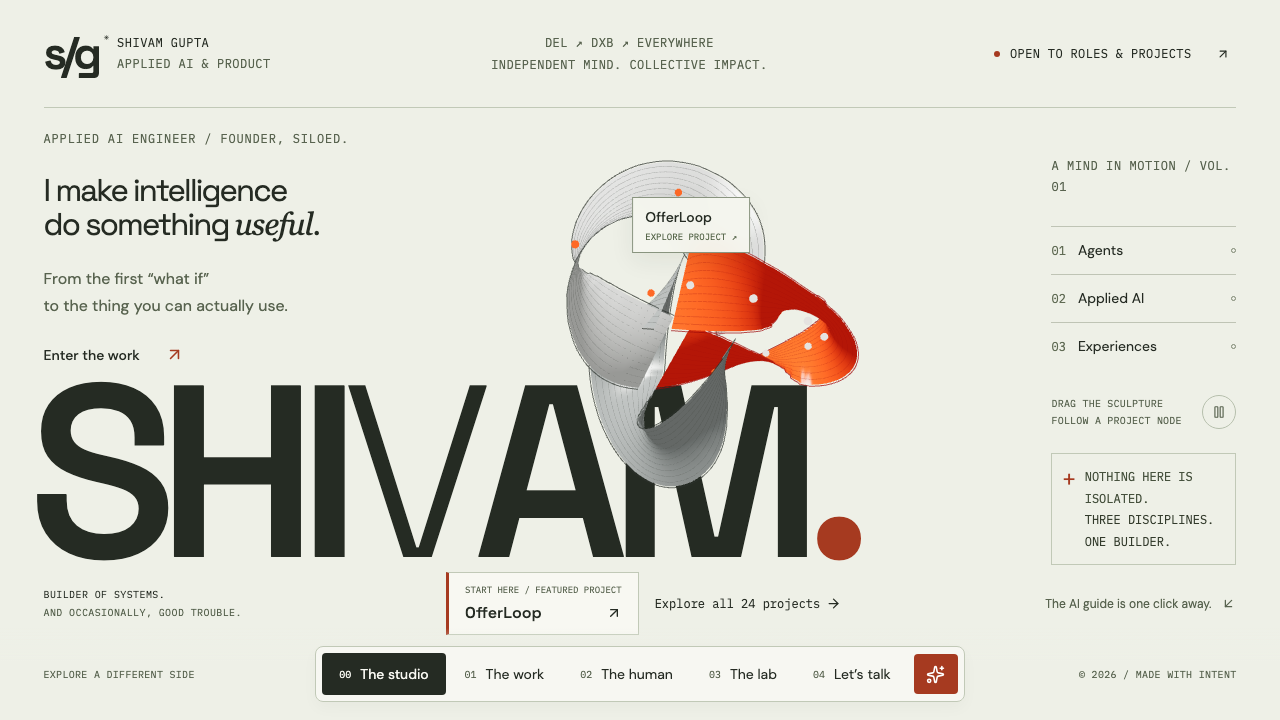
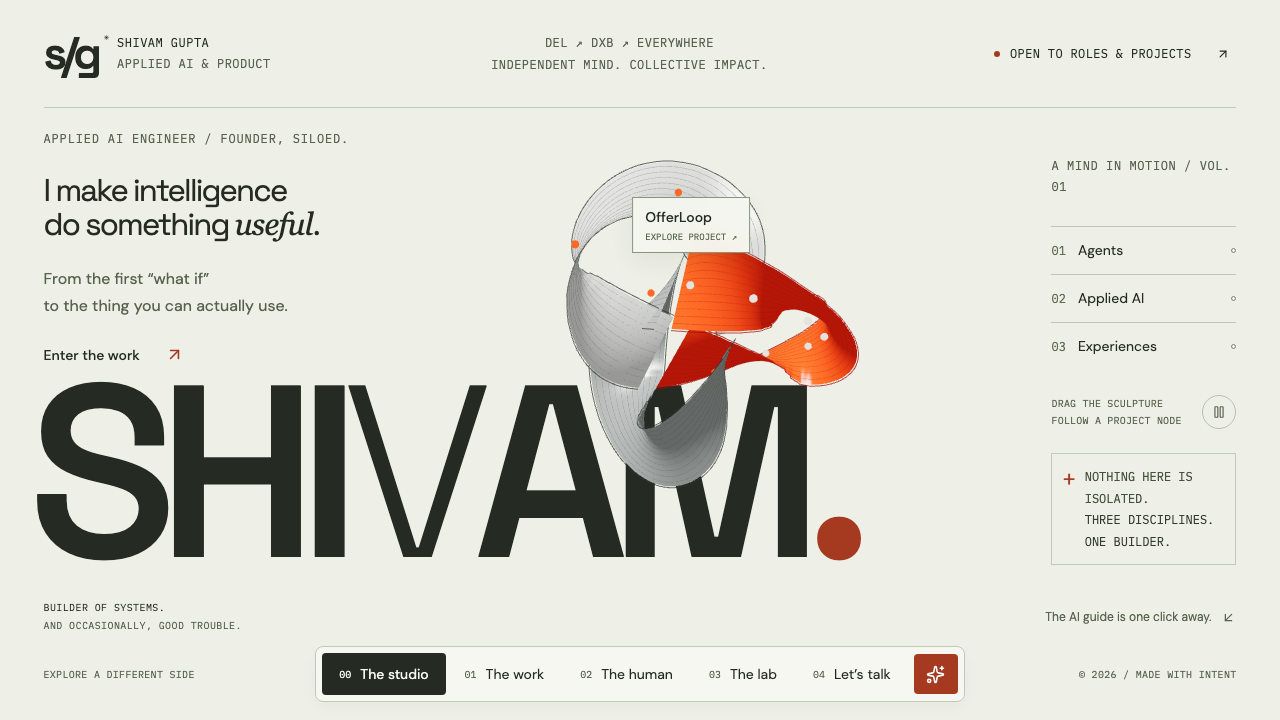
Refine sculpture project tour and featured work presentation

diff --git a/src/components/Intelligence.tsx b/src/components/Intelligence.tsx
@@ -70,7 +70,7 @@ export default function Intelligence({
     controls.enableZoom = false;
     controls.enableDamping = true;
     controls.rotateSpeed = 0.5;
-    controls.autoRotateSpeed = 0.25;
+    controls.autoRotateSpeed = 0.45;
     let env: THREE.WebGLRenderTarget | undefined;
     if (!software) {
       const pmrem = new THREE.PMREMGenerator(renderer);
@@ -248,6 +248,18 @@ export default function Intelligence({
     const raycaster = new THREE.Raycaster();
     const pointer = new THREE.Vector2();
     let down = { x: 0, y: 0 };
+    let dragging = false;
+    let hoveredNode = false;
+    let resumeAt = 0;
+    let tourElapsed = 0;
+    const holdTour = () => {
+      resumeAt = performance.now() + 4000;
+      tourElapsed = 0;
+    };
+    const onDragStart = () => { dragging = true; holdTour(); };
+    const onDragEnd = () => { dragging = false; holdTour(); };
+    controls.addEventListener("start", onDragStart);
+    controls.addEventListener("end", onDragEnd);
     function pick(e: PointerEvent) {
       const r = el.getBoundingClientRect();
       pointer.set(
@@ -255,7 +267,9 @@ export default function Intelligence({
         (-(e.clientY - r.top) / r.height) * 2 + 1,
       );
       raycaster.setFromCamera(pointer, camera);
-      return raycaster.intersectObjects(nodes)[0]?.object;
+      return raycaster.intersectObjects(nodes).find(({ object }) =>
+        state.current.district === "all" || object.userData.project.district === state.current.district,
+      )?.object;
     }
     const onDown = (e: PointerEvent) => {
       down = { x: e.clientX, y: e.clientY };
@@ -267,6 +281,8 @@ export default function Intelligence({
     };
     const onMove = (e: PointerEvent) => {
       const n = pick(e);
+      hoveredNode = !!n;
+      if (n) holdTour();
       el.style.cursor = n ? "pointer" : "grab";
       if (n && focused.current.id !== n.userData.project.id) {
         needsRender = true;
@@ -274,6 +290,8 @@ export default function Intelligence({
         setFocusProject(n.userData.project);
       }
     };
+    const onLeave = () => { hoveredNode = false; };
+    renderer.domElement.addEventListener("pointerleave", onLeave);
     renderer.domElement.addEventListener("pointerdown", onDown);
     renderer.domElement.addEventListener("pointerup", onUp);
     renderer.domElement.addEventListener("pointermove", onMove);
@@ -297,12 +315,35 @@ export default function Intelligence({
       lastDistrict = state.current.district;
     const render = (time: number) => {
       frame = requestAnimationFrame(render);
-      if (!visible || document.hidden || time - last < 28) return;
+      if (!visible || document.hidden) { last = time; return; }
+      if (time - last < 28) return;
+      const delta = Math.min((time - last) / 1000, 0.1);
       last = time;
-      controls.autoRotate = !state.current.paused && !reduced.matches;
-      controls.update();
+      const label = el.querySelector(".sculpture-project-label");
+      const readingLabel = label?.matches(":hover, :focus-within") ?? false;
+      const touring = !state.current.paused && !reduced.matches && !dragging &&
+        !hoveredNode && !readingLabel && time >= resumeAt;
+      controls.autoRotate = touring;
+      controls.enableDamping = !state.current.paused && !reduced.matches;
+      // Time-based orbiting stays equally slow on mobile and software renderers.
+      controls.update(delta);
+      if (touring) tourElapsed += delta;
+      if (tourElapsed >= 6) {
+        const candidates = projects.filter((p) =>
+          state.current.district === "all" || p.district === state.current.district,
+        );
+        const index = candidates.findIndex((p) => p.id === focused.current.id);
+        const next = candidates[(index + 1) % candidates.length];
+        if (next) {
+          focused.current = next;
+          setFocusProject(next);
+          needsRender = true;
+        }
+        tourElapsed = 0;
+      }
       if (lastDistrict !== state.current.district) {
         lastDistrict = state.current.district;
+        tourElapsed = 0;
         transitionUntil = reduced.matches ? 0 : time + 1800;
         needsRender = true;
       }
@@ -341,6 +382,13 @@ export default function Intelligence({
           settle ? 1 : 0.08,
         );
       });
+      nodes.forEach((node) => {
+        const highlighted = node.userData.project.id === focused.current.id;
+        node.scale.setScalar(highlighted ? 2.1 : 1);
+        (node.material as THREE.MeshBasicMaterial).color.set(
+          highlighted ? 0x213c31 : node.userData.project.district === "agents" ? 0xf4eee4 : 0xff4a12,
+        );
+      });
       renderer.render(scene, camera);
     };
     frame = requestAnimationFrame(render);
@@ -349,6 +397,12 @@ export default function Intelligence({
       observer.disconnect();
       resize.disconnect();
       controls.removeEventListener("change", markDirty);
+      controls.removeEventListener("start", onDragStart);
+      controls.removeEventListener("end", onDragEnd);
+      renderer.domElement.removeEventListener("pointerleave", onLeave);
+      renderer.domElement.removeEventListener("pointerdown", onDown);
+      renderer.domElement.removeEventListener("pointerup", onUp);
+      renderer.domElement.removeEventListener("pointermove", onMove);
       controls.dispose();
       resources.forEach((r) => r.dispose());
       env?.dispose();

diff --git a/tests/browser/sculpture.spec.ts b/tests/browser/sculpture.spec.ts
@@ -1,0 +1,54 @@
+import { test, expect } from '@playwright/test';
+
+test('sculpture rotates through real project links and pause freezes the tour', async ({ page }) => {
+  test.setTimeout(45000);
+  await page.emulateMedia({ reducedMotion: 'no-preference' });
+  await page.goto('/#studio');
+  const canvas = page.locator('.intelligence canvas');
+  const label = page.locator('.sculpture-project-label');
+  await expect(canvas).toBeVisible();
+  await expect(label).toContainText('OfferLoop');
+  const before = await canvas.screenshot();
+  await page.waitForTimeout(1000);
+  await expect(label).toContainText('OfferLoop');
+  expect((await canvas.screenshot()).equals(before)).toBe(false);
+  await expect(label).not.toContainText('OfferLoop', { timeout: 11000 });
+  await page.getByRole('button', { name: 'Pause sculpture', exact: true }).click();
+  await page.waitForTimeout(700); // Allow the manual control's damping to settle.
+  const pausedName = await label.innerText();
+  const pausedImage = await canvas.screenshot();
+  await page.waitForTimeout(6500);
+  expect(await label.innerText()).toBe(pausedName);
+  expect((await canvas.screenshot()).equals(pausedImage)).toBe(true);
+  await page.getByRole('button', { name: 'Animate sculpture', exact: true }).click();
+  await expect(label).not.toHaveText(pausedName, { timeout: 11000 });
+  await label.focus();
+  const focusedName = await label.locator('span').innerText();
+  await page.waitForTimeout(6500);
+  await expect(label.locator('span')).toHaveText(focusedName);
+  await label.press('Enter');
+  await expect(page.getByRole('dialog')).toContainText(focusedName);
+});
+
+test('reduced motion holds OfferLoop while preserving manual drag and project access', async ({ page }) => {
+  await page.goto('/#studio');
+  const canvas = page.locator('.intelligence canvas');
+  const label = page.locator('.sculpture-project-label');
+  await expect(canvas).toBeVisible();
+  await page.waitForTimeout(300);
+  const before = await canvas.screenshot();
+  await page.waitForTimeout(6500);
+  await expect(label).toContainText('OfferLoop');
+  expect((await canvas.screenshot()).equals(before)).toBe(true);
+  const box = (await canvas.boundingBox())!;
+  await page.mouse.move(box.x + box.width * .45, box.y + box.height * .45);
+  await page.mouse.down();
+  await page.mouse.move(box.x + box.width * .7, box.y + box.height * .5, { steps: 12 });
+  await page.mouse.up();
+  await page.waitForTimeout(700);
+  expect((await canvas.screenshot()).equals(before)).toBe(false);
+  await expect(page.getByRole('dialog')).not.toBeVisible();
+  const chosenName = await label.locator('span').innerText();
+  await label.click();
+  await expect(page.getByRole('dialog')).toContainText(chosenName);
+});

diff --git a/src/App.tsx b/src/App.tsx
@@ -1,7 +1,7 @@
 import { lazy, Suspense, useCallback, useEffect, useState } from "react";
 import {
   ArrowUpRight,
-  ArrowRight,
+  Star,
   Pause,
   Play,
   Sparkles,
@@ -127,9 +127,6 @@ export default function App() {
   const active =
     ordered.find((p) => p.id === activeId) || ordered[0] || projects[0];
   const story = stories[active.id];
-  const visibleNodes = projects.filter(
-    (p) => district === "all" || p.district === district,
-  );
   return (
     <div className={`studio-shell room-${room}`}>
       <a
@@ -251,20 +248,6 @@ export default function App() {
                 <br />
                 <span>AND OCCASIONALLY, GOOD TROUBLE.</span>
               </p>
-              <div
-                className="studio-project-links"
-                aria-label="Explore real projects"
-              >
-                {visibleNodes.slice(0, 1).map((p) => (
-                  <button className="studio-featured-project" key={p.id} onClick={() => chooseProject(p)}>
-                    <span>START HERE / FEATURED PROJECT</span>
-                    <strong>{p.name} <ArrowUpRight size={16} /></strong>
-                  </button>
-                ))}
-                <button className="studio-browse-projects" onClick={() => navigate("work")}>
-                  Explore all {projects.length} projects <ArrowRight size={15} />
-                </button>
-              </div>
               <span className="studio-ai-note">
                 The AI guide is one click away. <ArrowDownLeft size={15} />
               </span>
@@ -334,6 +317,11 @@ export default function App() {
                         {String(i + 1).padStart(2, "0")}
                       </span>
                       <span className="work-project-name">{p.name}</span>
+                      {p.id === "OfferLoop-Job-CRM" && (
+                        <span className="work-featured" aria-label="Featured project">
+                          <Star size={12} aria-hidden="true" /> <span>Featured</span>
+                        </span>
+                      )}
                       <ArrowUpRight size={22} />
                     </button>
                   ))}
@@ -358,7 +346,7 @@ export default function App() {
                 hidden={!ordered.length}
               >
                 <div className="preview-caption">
-                  <span>IN FOCUS</span>
+                  <span>{active.id === "OfferLoop-Job-CRM" ? "FEATURED PROJECT" : "IN FOCUS"}</span>
                   <span>{active.language}</span>
                 </div>
                 <div className="work-preview-copy">

diff --git a/src/styles.css b/src/styles.css
@@ -4052,23 +4052,25 @@ select:focus-visible {
 .studio-shell .work-filters input { color: var(--ink); }
 .studio-shell .work-filters input::placeholder { color: var(--muted); opacity: 1; }
 
-/* 00: a clear invitation beside the sculpture, never joined-up project labels. */
-.studio-project-links { display: flex; align-items: center; gap: 16px; flex-wrap: wrap; }
-.studio-project-links .studio-featured-project {
-  display: grid;
-  align-content: center;
+/* A quiet editorial marker keeps the featured project inside the work index. */
+.work-featured {
+  display: inline-flex;
+  align-items: center;
   gap: 5px;
-  min-width: 175px;
-  min-height: 62px;
-  padding: 11px 16px;
-  text-align: left;
+  flex-shrink: 0;
+  padding: 5px 7px;
   border: 1px solid var(--line);
-  border-left: 3px solid var(--orange);
-  background: var(--room-panel);
+  border-radius: 3px;
+  color: var(--ink);
+  font: 9px/1 var(--mono);
+  letter-spacing: 0;
 }
-.studio-featured-project > span { font: 8px/1.4 var(--mono); color: var(--muted); }
-.studio-featured-project > strong { display: flex; align-items: center; justify-content: space-between; gap: 18px; font: 500 16px var(--display); }
-.studio-project-links .studio-browse-projects { min-height: 44px; font-size: 11px; padding: 8px 0; }
+.work-featured svg { fill: currentColor; }
+@media (max-width: 540px) {
+  .work-featured { margin-left: auto; padding: 6px; }
+  .work-featured > span { display: none; }
+  .work-list > button:has(.work-featured) > svg { margin-left: 0; }
+}
 .studio-shell .sculpture-project-label { background: #f5f6eef5; border-color: #89947f; }
 .studio-shell .sculpture-project-label > small { color: #536347; }
 .studio-shell .studio-side .artifact-label { background: #eef0e7ef; border-color: var(--line); }
@@ -4182,7 +4184,7 @@ select:focus-visible {
   .monument-name { bottom: 154px; }
 }
 
-/* Short laptop screens keep the project invitation above the fixed dock. */
+/* Short laptop screens keep the name and closing copy above the fixed dock. */
 @media (min-width: 1001px) and (max-height: 800px) {
   .studio-room { min-height: 0; height: calc(100svh - 108px); }
   .studio-intro { top: 20px; }

diff --git a/tests/browser/portfolio.spec.ts b/tests/browser/portfolio.spec.ts
@@ -14,7 +14,7 @@ test("studio navigation, deep links, back and readable layout", async ({
   await expect(
     page.getByRole("heading", { name: "Proof of curiosity." }),
   ).toBeVisible();
-  await page.getByRole("button", { name: "01 OfferLoop", exact: true }).click();
+  await page.getByRole("button", { name: "01 OfferLoop Featured project", exact: true }).click();
   await expect(page.getByRole("dialog")).toBeVisible();
   await expect(
     page.getByRole("link", { name: "Try the project" }),
@@ -309,13 +309,15 @@ test("OfferLoop opens the studio and leads the curated project index", async ({ 
   await page.goto("/#studio");
   const primary = page.locator(".sculpture-project-label");
   await expect(primary).toContainText("OfferLoop");
-  await expect(page.locator(".studio-featured-project")).toContainText("OfferLoop");
-  await expect(page.locator(".studio-featured-project")).not.toContainText("Benchback");
+  await expect(page.locator(".studio-project-links")).toHaveCount(0);
+  await expect(page.getByText("START HERE / FEATURED PROJECT")).toHaveCount(0);
   await primary.click();
   await expect(page.getByRole("dialog")).toContainText("A job-search CRM");
   await expect(page.getByRole("link", { name: "Try the project" })).toHaveAttribute("href", "https://offerloop.web.app");
   await page.goto("/#work");
   await expect(page.locator(".work-list > button").first()).toContainText("OfferLoop");
+  await expect(page.locator(".work-list > button").first().getByLabel("Featured project")).toBeVisible();
+  await expect(page.locator(".preview-caption")).toContainText("FEATURED PROJECT");
   await expect(page.locator(".work-preview")).toContainText("Give your next chapter a system.");
   await expect(page.locator(".work-list > button")).toHaveCount(24);
   for (const id of ["ap-article-review", "ap-frq-review", "math-question-editor", "speechace-proxy", "sat-pdf-to-csv"]) {

diff --git a/tests/browser/responsive.spec.ts b/tests/browser/responsive.spec.ts
@@ -34,18 +34,15 @@ for (const [width, height] of [[320, 568], [600, 960], [820, 1180], [640, 360], 
   });
 }
 
-test('short desktop keeps the featured project clear of the name and dock', async ({ page }) => {
+test('short desktop keeps the name and closing copy clear of the dock', async ({ page }) => {
   await page.setViewportSize({ width: 1280, height: 720 });
   await page.goto('/#studio');
   await page.evaluate(() => document.fonts.ready);
-  const featured = page.locator('.studio-featured-project');
-  await expect(featured).toContainText('OfferLoop');
-  const card = await featured.boundingBox();
+  const footer = await page.locator('.studio-bottom').boundingBox();
   const name = await page.locator('.monument-name').boundingBox();
   const dock = await page.locator('.studio-dock').boundingBox();
-  expect(card!.y).toBeGreaterThanOrEqual(name!.y + name!.height);
-  expect(card!.y + card!.height).toBeLessThan(dock!.y);
-  await expect(featured).toBeInViewport({ ratio: 1 });
-  await featured.click();
-  await expect(page.getByRole('dialog')).toContainText('OfferLoop');
+  expect(footer!.y).toBeGreaterThanOrEqual(name!.y + name!.height);
+  expect(footer!.y + footer!.height).toBeLessThan(dock!.y);
+  await expect(page.locator('.studio-bottom')).toBeInViewport({ ratio: 1 });
+  await expect(page.locator('.studio-project-links')).toHaveCount(0);
 });

diff --git a/README.md b/README.md
@@ -2,7 +2,7 @@
 
 **[Enter the studio →](https://shivamgupta.web.app)**
 
-A spatial portfolio for my work in applied AI, engineering, and product. The studio is a folded 3D map of 29 public projects, with a searchable work index, source-linked case studies, a career room, and ways to work together through Siloed.
+A spatial portfolio for my work in applied AI, engineering, and product. The studio is a folded 3D map of selected public projects, with a searchable work index, source-linked case studies, a career room, and ways to work together through Siloed.
 
 The AI guide answers from curated public project notes and my resume. The reliability lab is different: a deterministic local simulation that lets you break a tool response, compare recovery policies, and export a runnable Python experiment.
 
